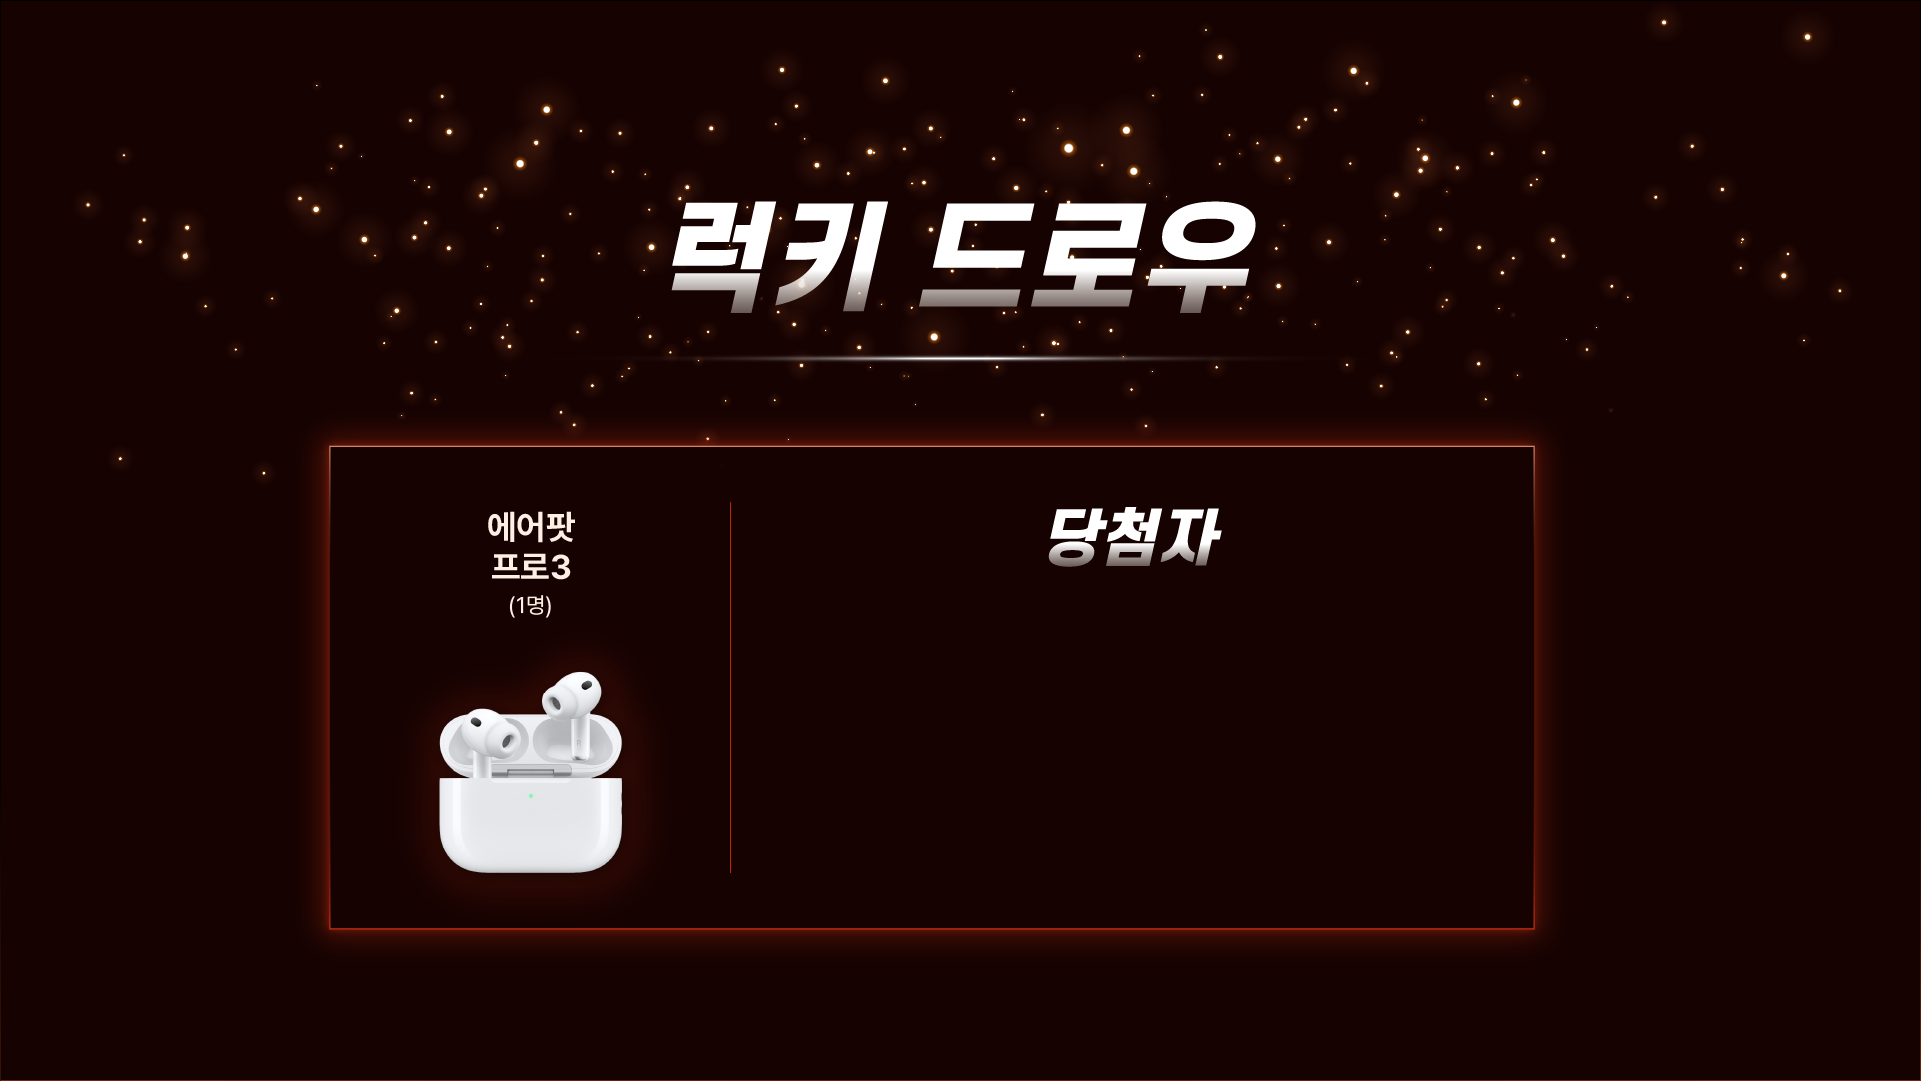
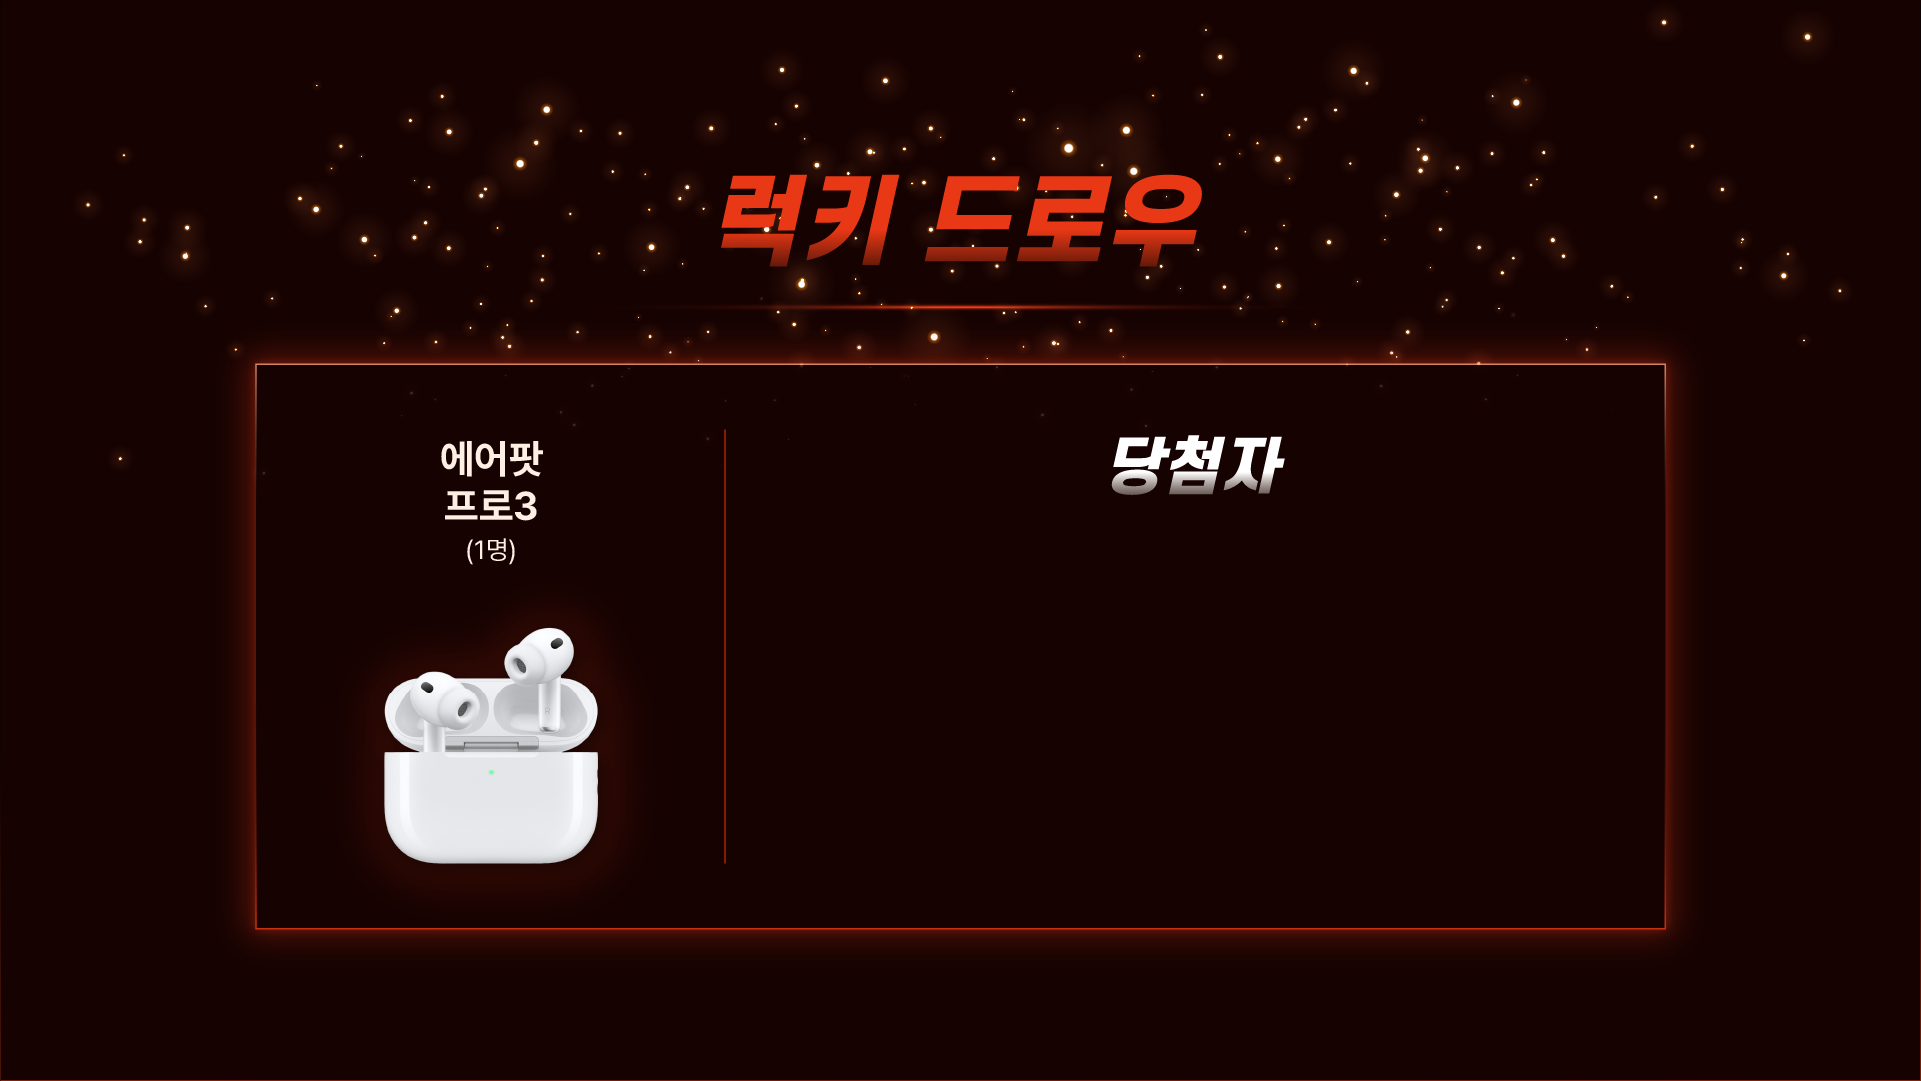
feat: 럭키드로우 배경 이미지를 v2 디자인으로 교체
박스가 넓어지고 타이틀이 빨간색으로 바뀐 새 버전에 맞춰
당첨자 이름 오버레이 좌표(가로/세로)도 재조정

Changed region(s): [[0.1249, 0.1526, 0.8745, 0.8853]]

diff --git a/app/screen/page.tsx b/app/screen/page.tsx
@@ -90,7 +90,7 @@ function ScreenContent() {
               (라벨과 안 겹치도록 top을 충분히 아래로 잡고, 세로는 위에서부터 쌓음) */}
           <div
             className="absolute flex flex-col items-center text-white"
-            style={{ left: "36%", width: "46%", top: "55%", gap: "3%" }}
+            style={{ left: "37.5%", width: "49%", top: "52%", gap: "3%" }}
           >
             {group.map((w, i) => (
               <p key={i} className="font-extrabold text-center leading-tight whitespace-nowrap" style={{ fontSize: "clamp(1.6rem, 4.4vh, 4.4vh)" }}>
